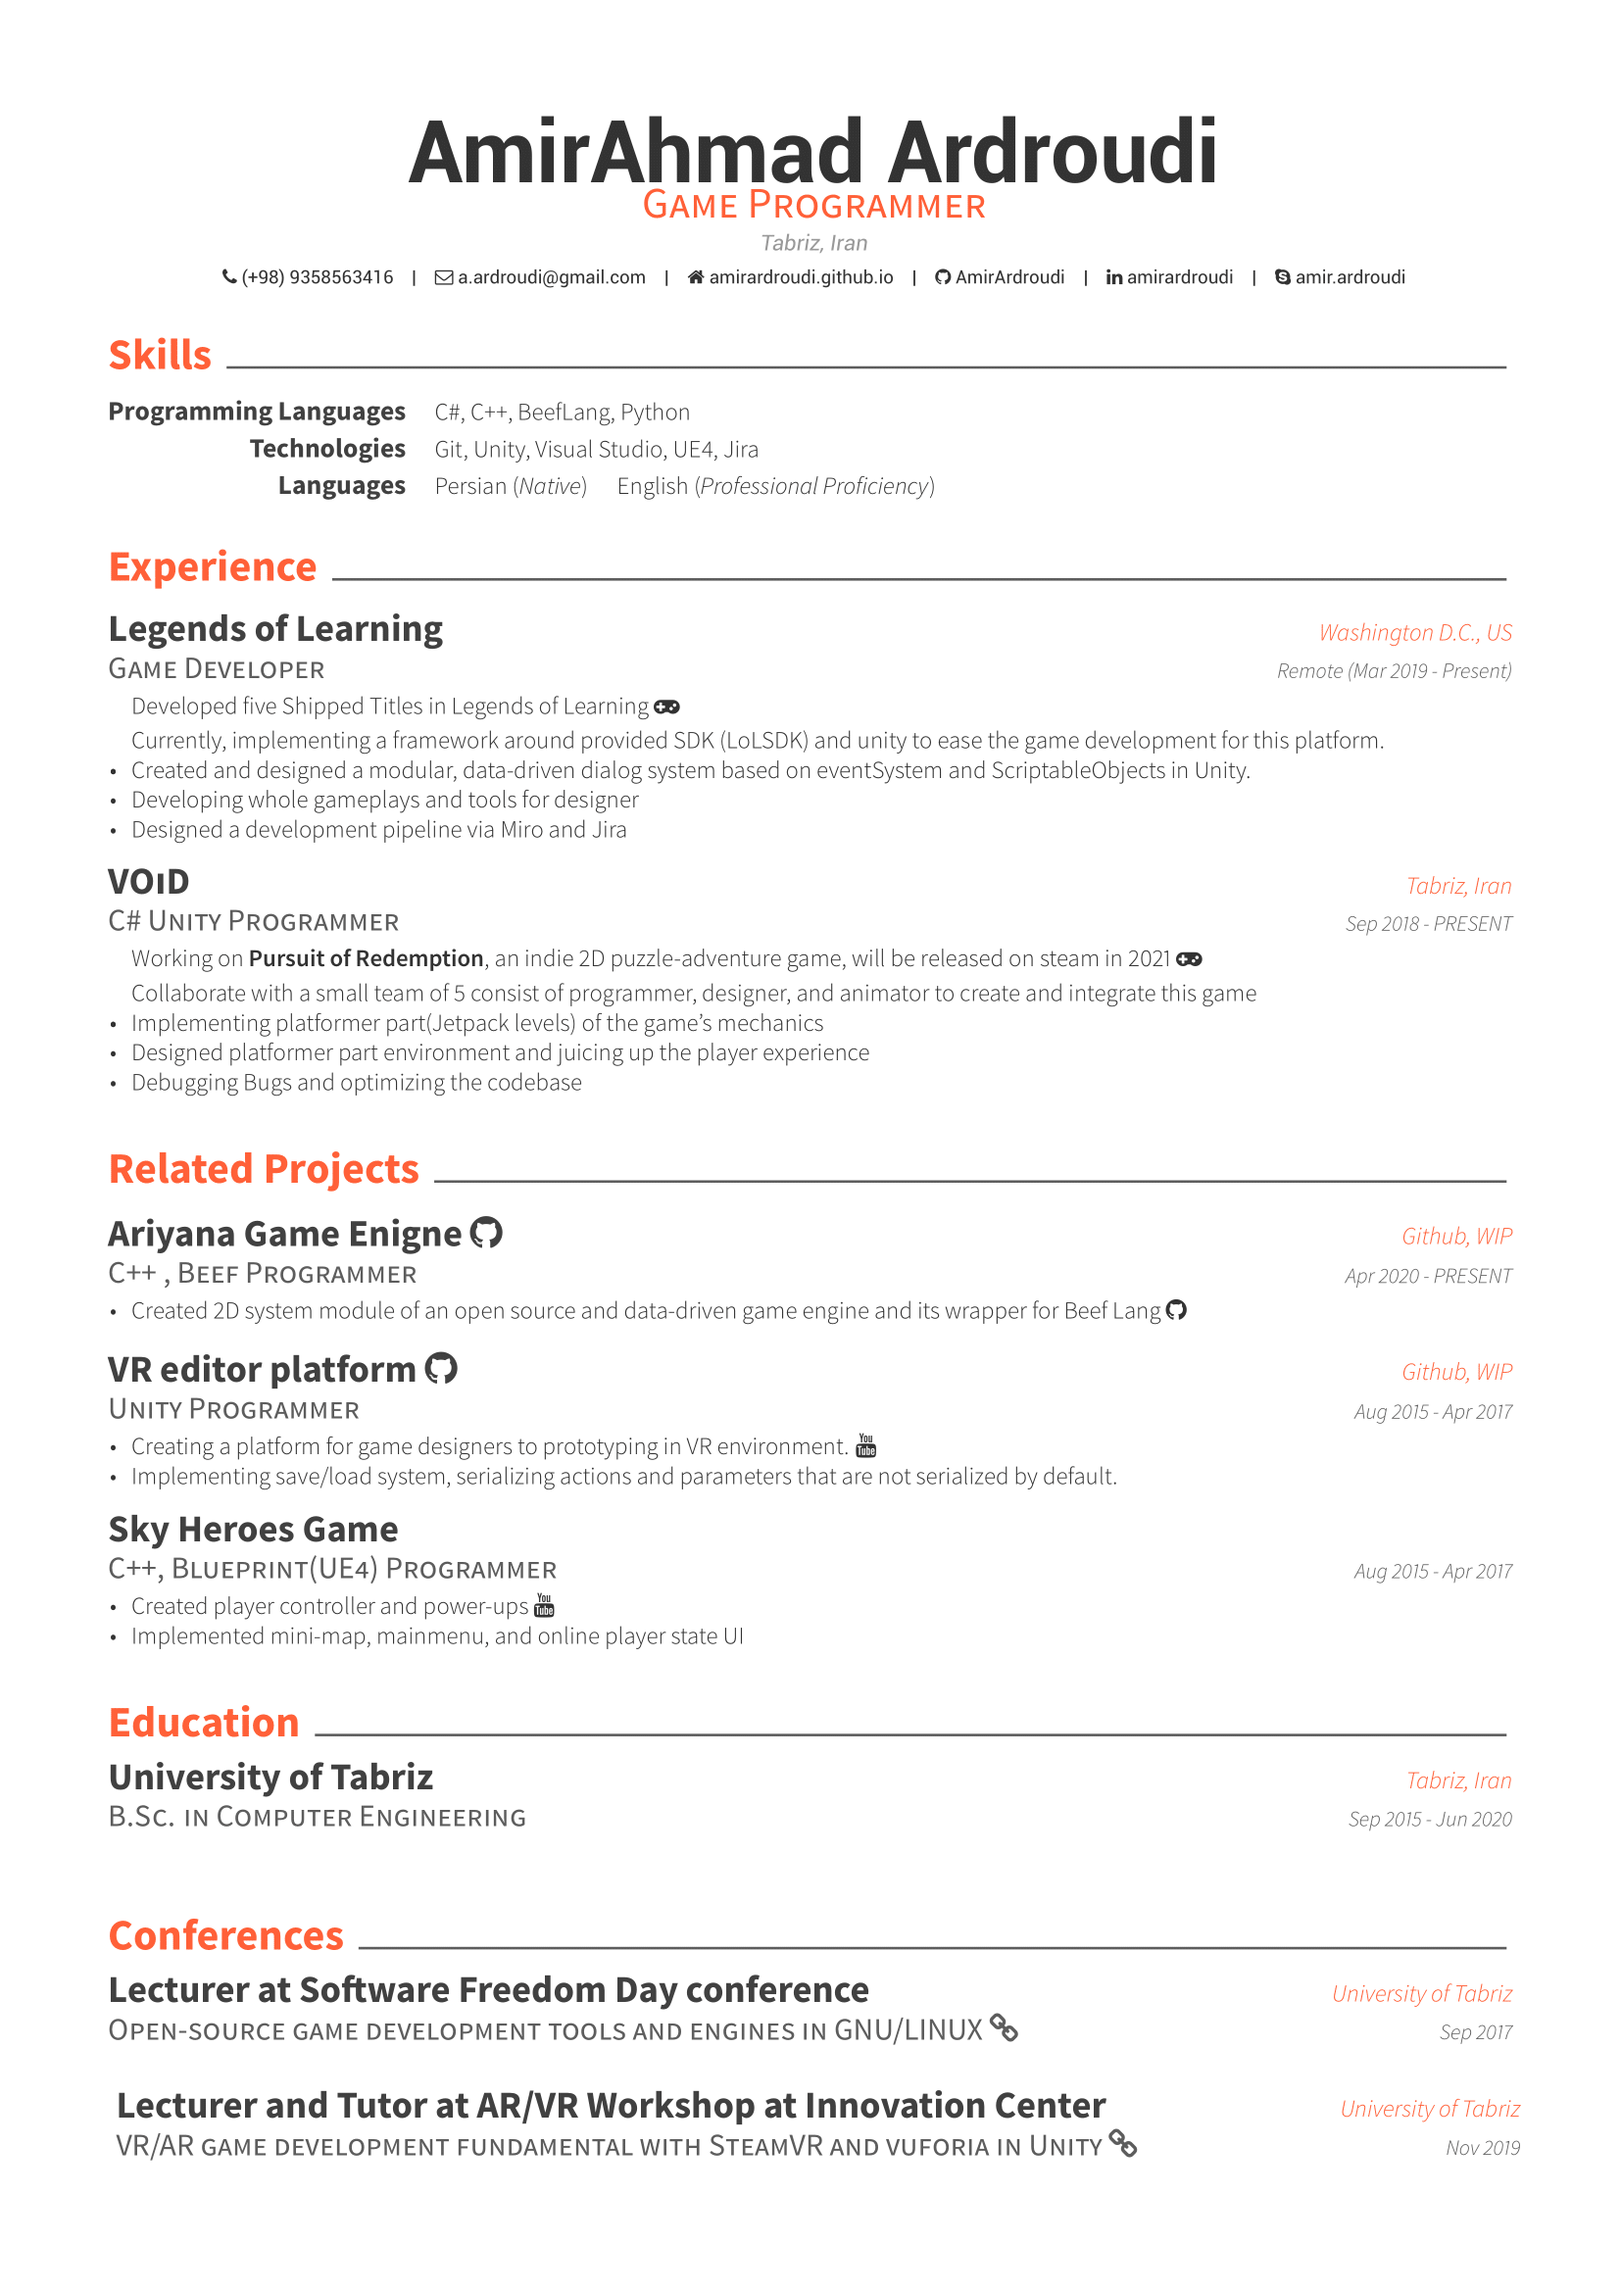
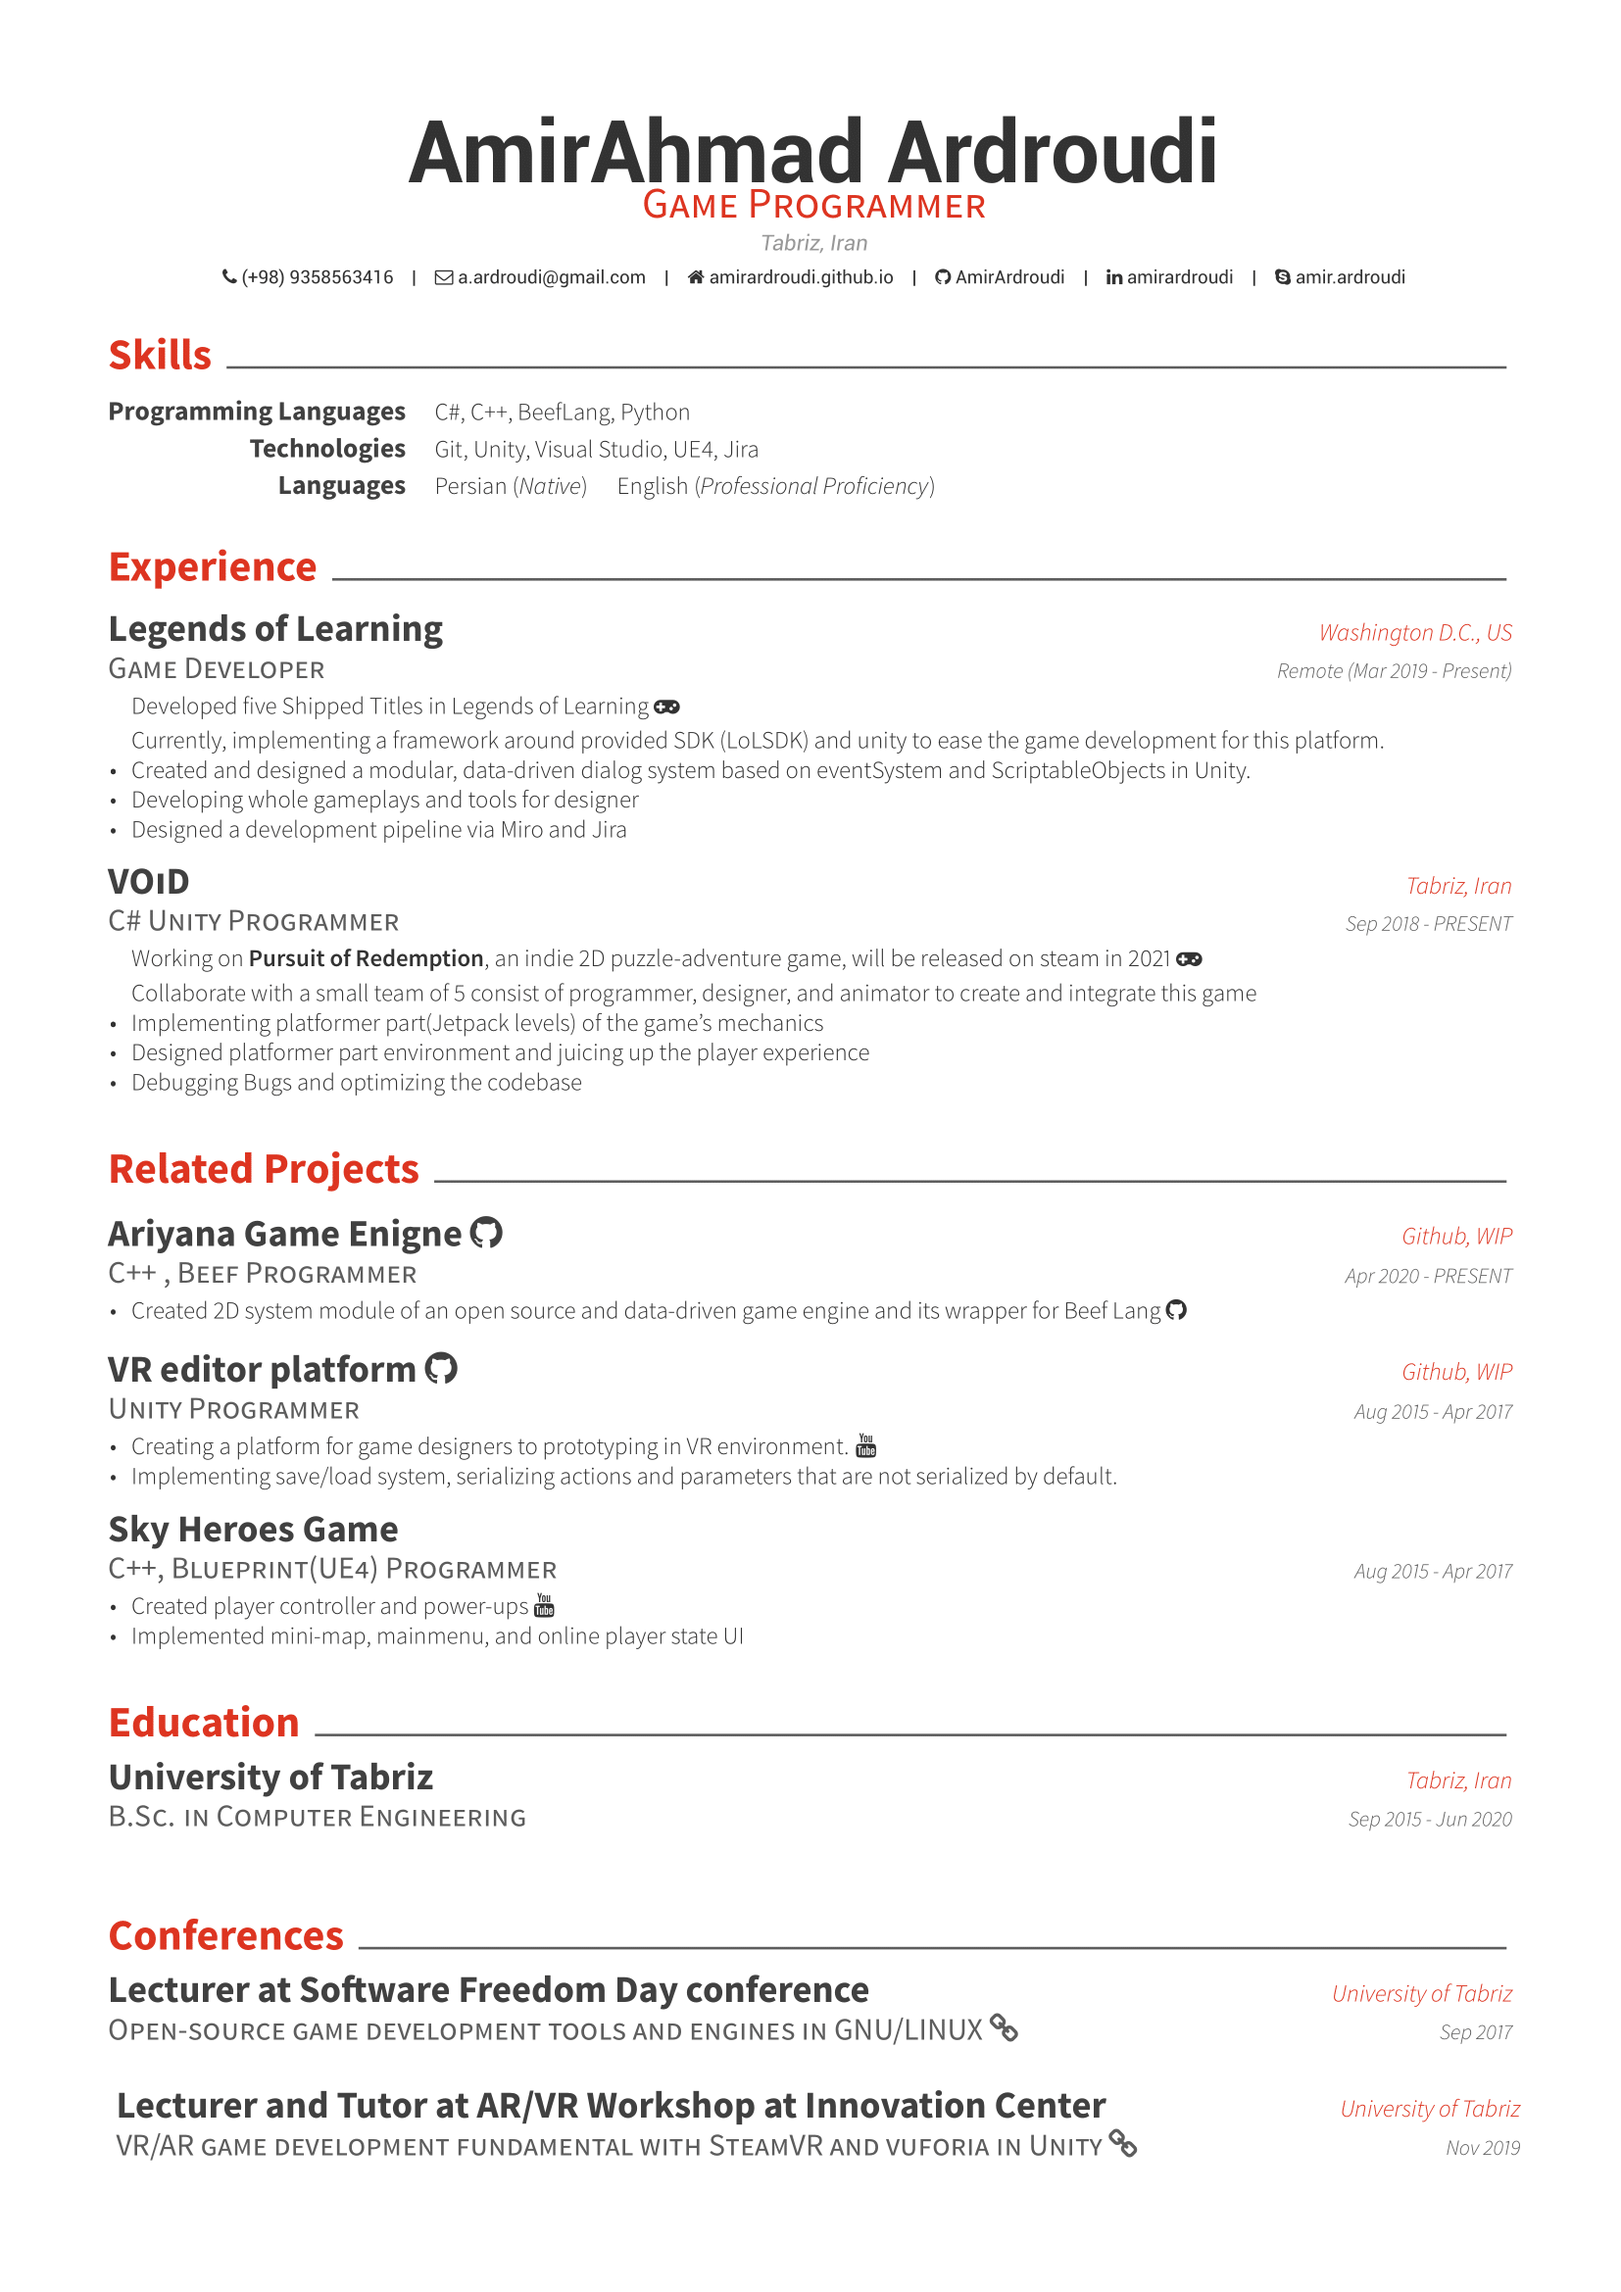
fixing minor issues

diff --git a/src/components/sections/about.js b/src/components/sections/about.js
@@ -149,7 +149,7 @@ const About = () => {
             I'm AmirAhmad Ardroudi, I am 23, and I'm a passionate game programmer/developer.<br></br>
             I loved playing video games from the day I can remember, and that derived a passion towards making them. I set about building games when I was a teenager using Unity and Unreal game engines, and In college, I decided to pursue my career as a game developer. From that day on, I have been a part of around 10 projects.<br></br>
             Besides developing games, I have some experience in game engine programming and architecture, such as Entity Component System (ECS) and Data-Driven design.<br></br>
-            Furthermore, throughout these years, I have always had the mindset of clean, concise, resource-friendly, and optimized programming. Also, I have a good deal of experience working with teams and collaborating with game designers. Collaborating with designers had a palatable impact on player experience and the overall juicing and quality of our projects.<br></br>
+            Furthermore, throughout these years, I have always had the mindset of clean, concise, resource-friendly, and optimized programming. Also, I have a good deal of experience working with teams and collaborating with game designers. Collaborating with designers had a palatable impact on player experience and the overall juiciness and quality of our projects.<br></br>
             Here are a few technologies and languages I've been working with recently:
                         
           </div>

diff --git a/src/components/sections/hero.js b/src/components/sections/hero.js
@@ -57,8 +57,7 @@ const Hero = () => {
   const three = <h3 className="medium-heading">I am a Game Programmer</h3>;
   const four = (
     <p>
-      I'm a diligent and team-oriented game programmer/developer, who aspires to write clean,
-      optimized, and resource-friendly code. Building tools, programming, and 'juicing' the gameplay is right up my alley. Currently, I am working on educational math learning games for the United States based company, {' '}
+      I'm a diligent and team-oriented game programmer/developer. Building tools, gameplay programming, and 'juicing' the gameplay is right up my alley. Currently, I am working on educational math learning games for the United States based company, {' '}
       <a href="https://www.legendsoflearning.com">Legends of Learning</a>.
     </p>
   );

diff --git a/src/components/sections/contact.js b/src/components/sections/contact.js
@@ -175,7 +175,7 @@ const About = () => {
             <h3>Hobbies</h3>
             <p>
               I play electric guitar in my spare time. I mostly play and listen to progressive rock/metal. 🤟
-              I Played a little basketball in high school. Also of course playing video games and board games is my main passion.
+              I Played a little basketball in high school. Also of course playing video games (big fan of management simulation, city-building, RTS, and ...) and board games is my main passion.
             </p>
 
 

diff --git a/src/styles/GlobalStyle.js b/src/styles/GlobalStyle.js
@@ -10,13 +10,13 @@ const GlobalStyle = createGlobalStyle`
     --dark-navy: #FBF7F6;
     --navy: #FBF7F6;
     --light-navy: #FBF7F6; // description bg color
-    --lightest-navy: #D94B05; //line color
+    --lightest-navy: #a1061e; //line color
     --navy-shadow: rgba(52, 43, 62, 0.95);
     --slate: #222020;
     --light-slate: #484d5c;
     --lightest-slate: #fffff;
     --white: #e6f1ff;
-    --green: #D94B05;
+    --green: #a1061e;
     --green-tint: rgb(251, 144, 0, 0.5);
     --trans : #fffff
 

diff --git a/content/featured/DecimalDiscovery.md b/content/featured/DecimalDiscovery.md
@@ -17,7 +17,7 @@ showInProjects: true
 --- 
 <small>Jan 2021</small>
 
-In Decimal Discovery, Players enter the world of Barlingons and take control of an abandoned spaceship which belongs to humans. Players will fly the ship through 4 different planets of addition, subtraction, multiplication, and division, in which they will learn about decimal numbers and how to add, subtract, multiply, and divide them, to disintegrate the obstacles in their way and reach the earth to meet humans. Students will learn all about decimal numbers with interactive tutorials and fun and engaging gameplay, and by the time that the journey is over, they will know all they need to know about Arithmetic with Decimals. In this game, I've tried to create more handy and flexible tools for designers and artists, which encouraged me to watch a lot of conferences and read articles about it in [ GDC (Game Development Conferences)](https://gdconf.com/) as well as other sources. This was a very enjoyable journey because I always try to stay up to date on new technologies and best practices used by industry developers.
+In Decimal Discovery, players enter the world of Barlingons and take control of an abandoned spaceship which belongs to humans. Players will fly the ship through 4 different planets of addition, subtraction, multiplication, and division, in which they will learn about decimal numbers and how to add, subtract, multiply, and divide them, to disintegrate the obstacles in their way and reach the earth to meet humans. Students will learn all about decimal numbers with interactive tutorials and fun and engaging gameplay, and by the time that the journey is over, they will know all they need to know about Arithmetic with Decimals. In this game, I've tried to create more handy and flexible tools for designers and artists, which encouraged me to watch a lot of conferences and read articles about it in [ GDC (Game Development Conferences)](https://gdconf.com/) as well as other sources. This was a very enjoyable journey because I always try to stay up to date on new technologies and best practices used by industry developers.
 
 **My responsibilities in this game were:**
 - Designing a flexible game architecture based on scriptable objects and Unityevent.  

diff --git a/content/projects/Ariyana-game-Engine.md b/content/projects/Ariyana-game-Engine.md
@@ -1,20 +1,22 @@
 ---
 date: '2021-01-11'
-title: 'Ariyana Game Engine'
+title: 'Ariyana Game Engine 2D module'
 github: 'https://github.com/AmirArdroudi/ariyana'
 external: 'https://github.com/AmirArdroudi/ariyana#ariyana-game-engine-05'
 tech:
   - C++
   - Beef Lang
   - Data-Driven
-  - Android/PC
 
 company: ''
 showInProjects: true
 ---
 
-<img src="/images/ariyana.jpg" width="265" height="160"></img>
+<img src="/images/ari2D(2).jpg" width="265" height="160"></img>
 
 ---
 
-Ariyana is a data-driven modular game engine which uses fiber system for enhancing multi-threading and provides scripting possibility with [beef language](https://www.beeflang.org/). In this project, I was responsible for creating the 2D system module and its scripting wrapper around beef.
+Ariyana is a data-driven modular game engine which uses fiber system for enhancing multi-threading and provides scripting possibility with [beef language](https://www.beeflang.org/). 
+
+In this project, I was responsible for creating the 2D system module and its scripting wrapper around beef.
+Moreover, I've created [Ari2D-Tutorial](https://github.com/AmirArdroudi/Ari2D-Tutorial) which explains setting up the environment and scripting a 2D project in [Beef IDE](https://www.beeflang.org/docs/ide/)🥩

diff --git a/content/projects/Block-Heroes.md b/content/projects/Block-Heroes.md
@@ -1,6 +1,6 @@
 ---
-date: '2021-01-01'
-title: 'Block Heroes'
+date: '2021-01-02'
+title: 'Block Heroes (A multiplayer Tetris-clone Game)'
 github: 'https://github.com/AmirArdroudi/blockheroes'
 external: 'https://gamejolt.com/games/blockheroes/515039'
 tech:
@@ -14,8 +14,9 @@ company: ''
 showInProjects: true
 ---
 
-<img src="/images/bhlogo.png" width="265" height="160"></img>
+<img src="/images/bhp.jpg" width="265" height="160"></img>
 
 ---
 
-Block Heroes is an experimental game based on Tetris, built with the Ariyana engine, which has online multiplayer capability and replay system. It can be played [Block Heroes](https://gamejolt.com/games/blockheroes/515039) in GameJolt. This game is a work in progress.
+Block Heroes is an experimental game based on Tetris, built with the Ariyana engine, which has online multiplayer capability and replay system. It can be played [Block Heroes](https://gamejolt.com/games/blockheroes/515039) in GameJolt. I'm responsible for gameplay scripting in Beef Lang.
+This game is a work in progress.

diff --git a/content/projects/dialogsystem.md b/content/projects/dialogsystem.md
@@ -1,0 +1,21 @@
+---
+date: '2021-03-01'
+title: 'Dialog System based on ScriptableObejects and my custom event handler'
+github: 'https://github.com/AmirArdroudi/Dialog-System'
+external: ''
+tech:
+  - Unity
+  - C#
+  - Scriptable-Objects
+  - modular
+
+company: ''
+showInProjects: true
+---
+
+<img src="/images/dialogSystem.png" width="265" height="160"></img>
+
+---
+
+Programmed a modular system for [handling events](https://github.com/AmirArdroudi/unity-custom-eventhandler') based on scriptable-object and UnityEvent in unity engine. Developer/Designer could hook things up in the editor, which comes in handy in gameplay development and will help to isolate prefabs. The idea of this project was inspired by some conferences on game development which is referenced on the Github repo.
+Also, I've built a Dialog System upon this event handler in Unity. all the dialog data are separated from the logic and stored in Dialog scriptable objects.

diff --git a/content/projects/sky-Heroes.md b/content/projects/sky-Heroes.md
@@ -1,5 +1,5 @@
 ---
-date: '2017-03-27'
+date: '2021-03-27'
 title: 'Sky Heroes'
 github: ''
 external: 'https://medium.com/stories-from-upstatement/integrating-algolia-search-with-wordpress-multisite-e2dea3ed449c'

diff --git a/content/projects/fun-climb.md b/content/projects/fun-climb.md
@@ -1,5 +1,5 @@
 ---
-date: '2020-06-01'
+date: '2021-06-01'
 title: 'Fun Climb'
 github: 'https://github.com/Vonderbird/VR_platform'
 external: ''
